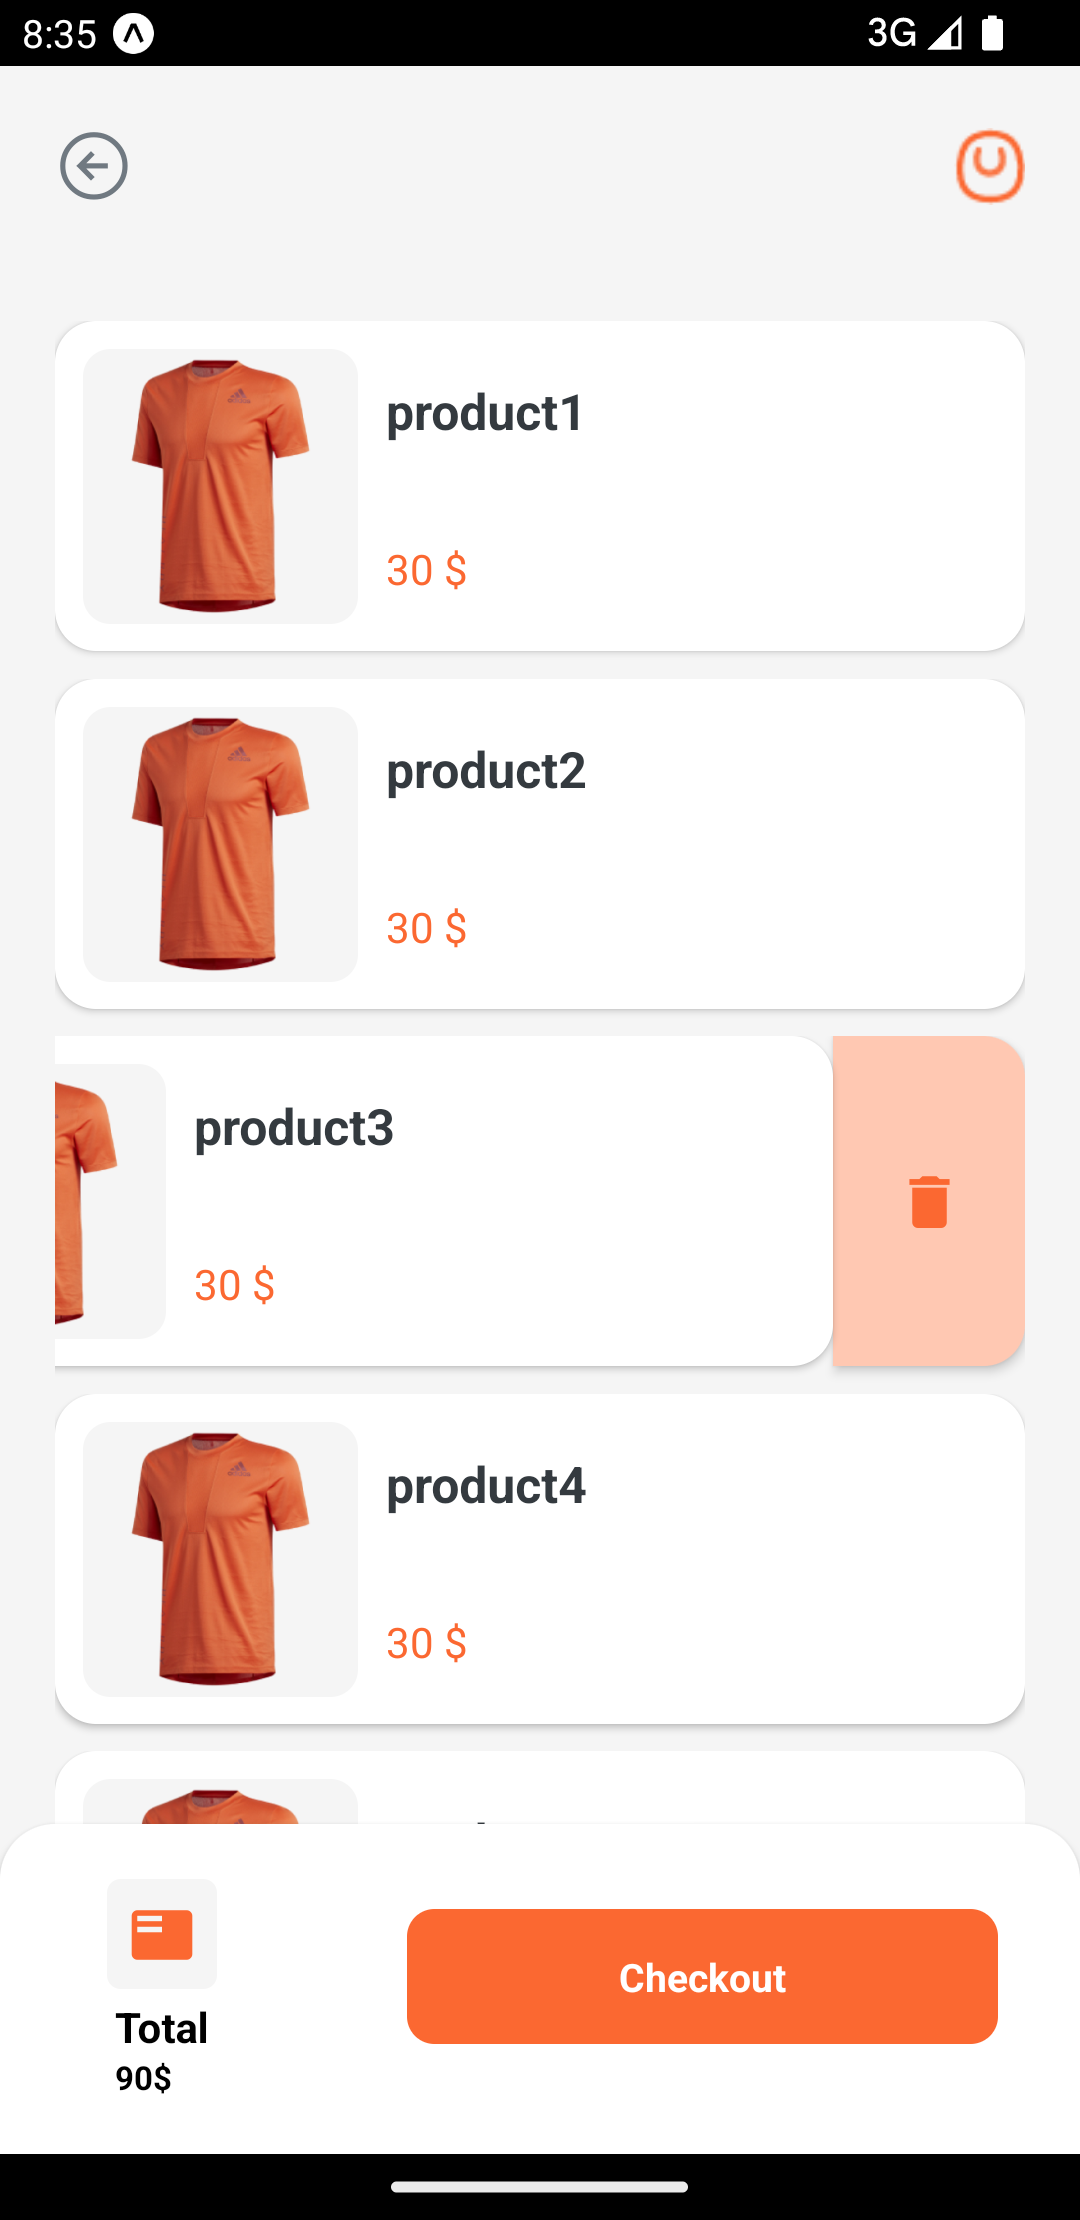
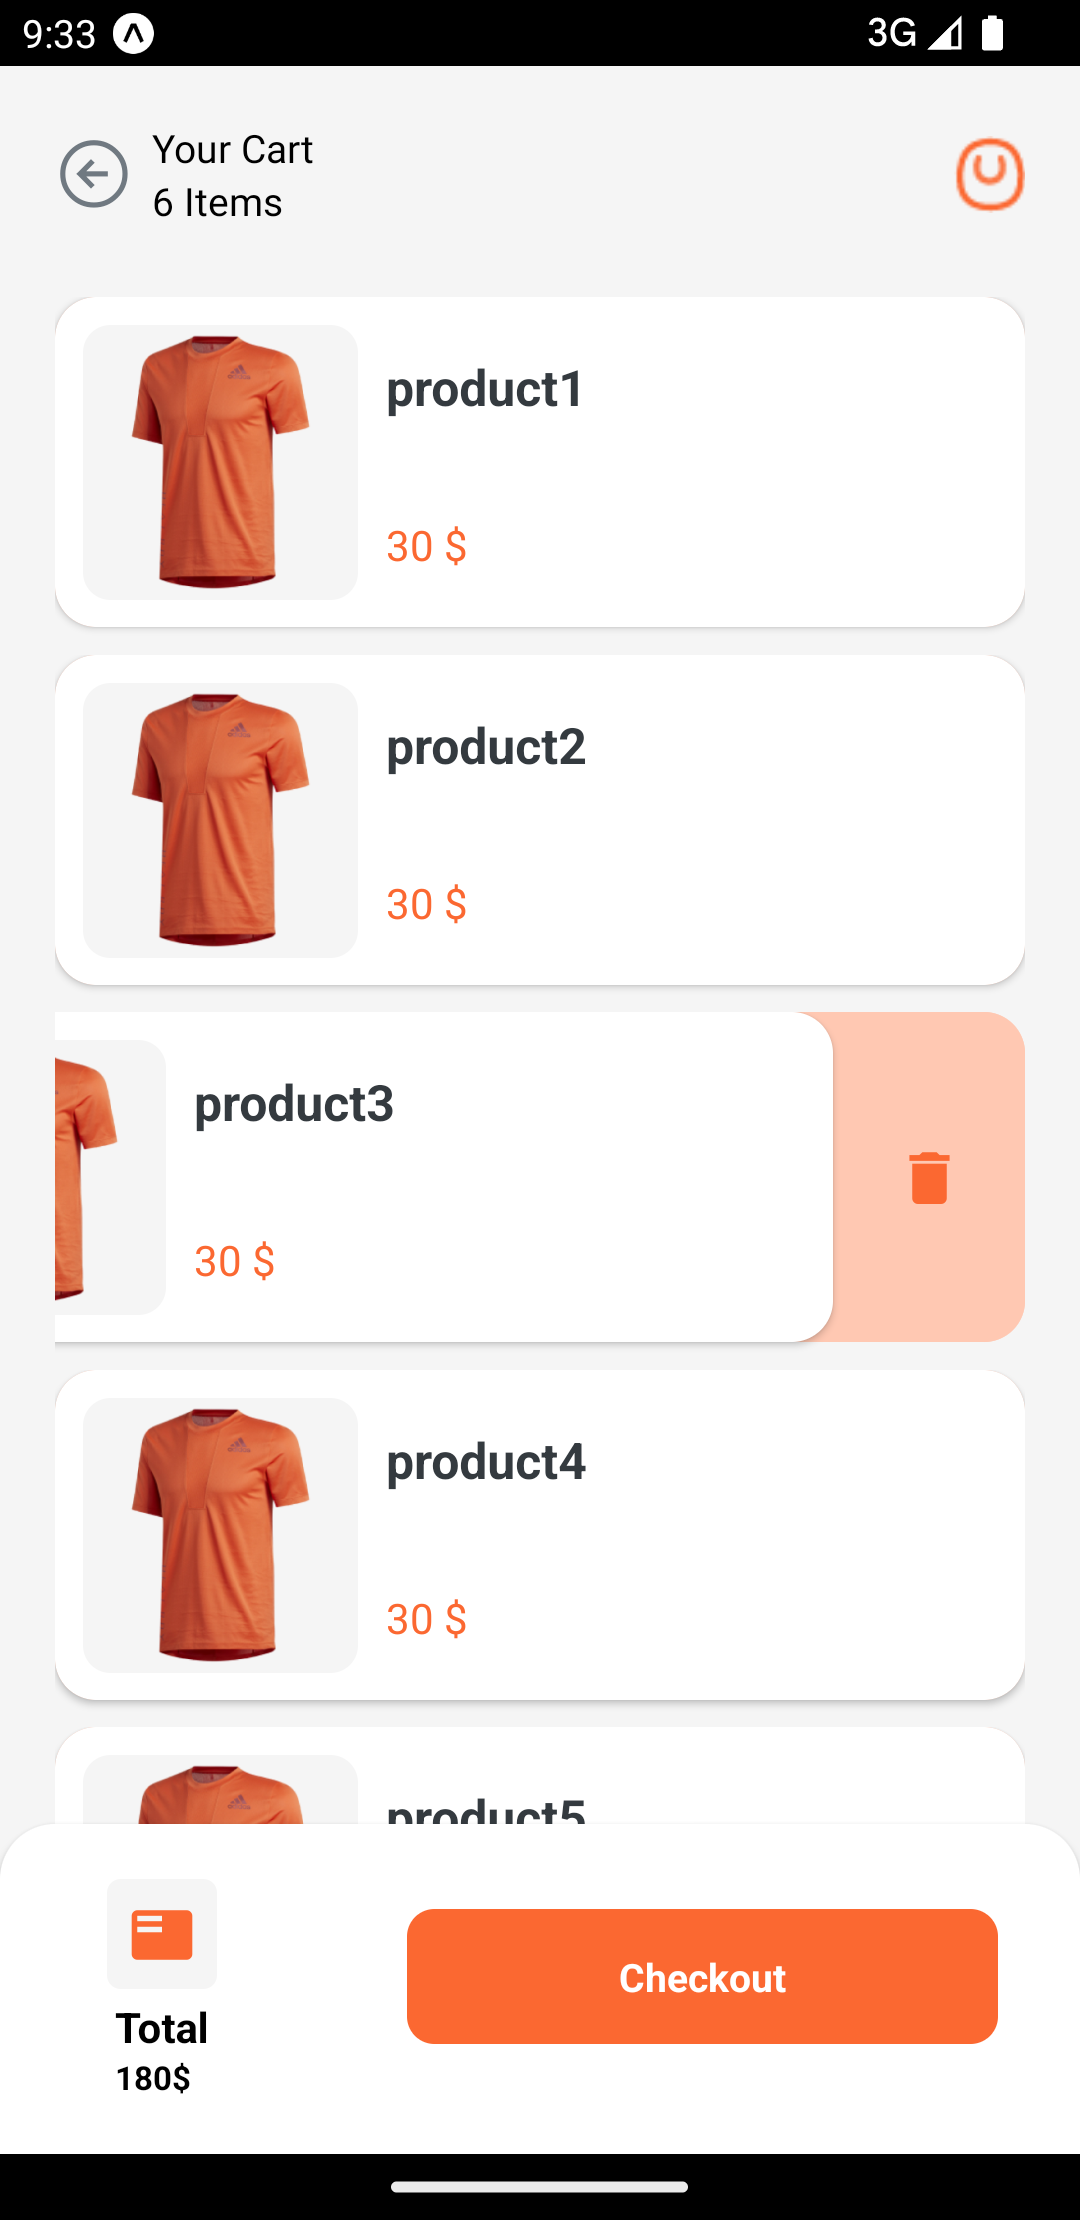
add UI changes in Cart Screen

diff --git a/screens/user/CartScreen.js b/screens/user/CartScreen.js
@@ -58,17 +58,24 @@ const CartScreen = ({ navigation }) => {
     <View style={styles.container}>
       <StatusBar></StatusBar>
       <View style={styles.topBarContainer}>
-        <TouchableOpacity
-          onPress={() => {
-            navigation.goBack();
-          }}
-        >
-          <Ionicons
-            name="arrow-back-circle-outline"
-            size={30}
-            color={colors.muted}
-          />
-        </TouchableOpacity>
+        <View style={styles.cartInfoContainerTopBar}>
+          <TouchableOpacity
+            onPress={() => {
+              navigation.goBack();
+            }}
+          >
+            <Ionicons
+              name="arrow-back-circle-outline"
+              size={30}
+              color={colors.muted}
+            />
+          </TouchableOpacity>
+          <View style={styles.cartInfoTopBar}>
+            <Text>Your Cart</Text>
+            <Text>{data.length} Items</Text>
+          </View>
+        </View>
+
         <View></View>
         <TouchableOpacity>
           <Image source={cartIcon} />
@@ -97,7 +104,7 @@ const CartScreen = ({ navigation }) => {
           </View>
           <View>
             <Text style={styles.cartBottomPrimaryText}>Total</Text>
-            <Text style={styles.cartBottomSecondaryText}>90$</Text>
+            <Text style={styles.cartBottomSecondaryText}>{30 * 6}$</Text>
           </View>
         </View>
         <View style={styles.cartBottomRightContainer}>
@@ -184,5 +191,16 @@ const styles = StyleSheet.create({
     height: 40,
     width: 40,
     borderRadius: 5,
+  },
+  cartInfoContainerTopBar: {
+    display: "flex",
+    flexDirection: "row",
+    justifyContent: "center",
+    alignItems: "center",
+  },
+  cartInfoTopBar: {
+    justifyContent: "center",
+    alignItems: "flex-start",
+    marginLeft: 5,
   },
 });

diff --git a/components/CartProductList/CartProductList.js b/components/CartProductList/CartProductList.js
@@ -29,17 +29,19 @@ const CartProductList = ({ image, title, price, handleDelete }) => {
   };
   return (
     <GestureHandlerRootView>
-      <Swipeable renderRightActions={rightSwipe}>
-        <View style={styles.container}>
-          <View style={styles.imageContainer}>
-            <Image source={image} style={styles.productImage} />
+      <View style={styles.containerOuter}>
+        <Swipeable renderRightActions={rightSwipe}>
+          <View style={styles.container}>
+            <View style={styles.imageContainer}>
+              <Image source={image} style={styles.productImage} />
+            </View>
+            <View style={styles.productInfoContainer}>
+              <Text style={styles.productTitle}>{title}</Text>
+              <Text style={styles.productPrice}>{price} $</Text>
+            </View>
           </View>
-          <View style={styles.productInfoContainer}>
-            <Text style={styles.productTitle}>{title}</Text>
-            <Text style={styles.productPrice}>{price} $</Text>
-          </View>
-        </View>
-      </Swipeable>
+        </Swipeable>
+      </View>
     </GestureHandlerRootView>
   );
 };
@@ -59,6 +61,13 @@ const styles = StyleSheet.create({
     padding: 10,
     marginBottom: 10,
     elevation: 2,
+  },
+  containerOuter: {
+    backgroundColor: colors.primary_light,
+    height: 120,
+    borderRadius: 15,
+    width: "100%",
+    marginBottom: 10,
   },
   productImage: {
     width: 100,
@@ -94,6 +103,5 @@ const styles = StyleSheet.create({
     borderBottomRightRadius: 15,
     marginBottom: 10,
     width: 70,
-    elevation: 3,
   },
 });
